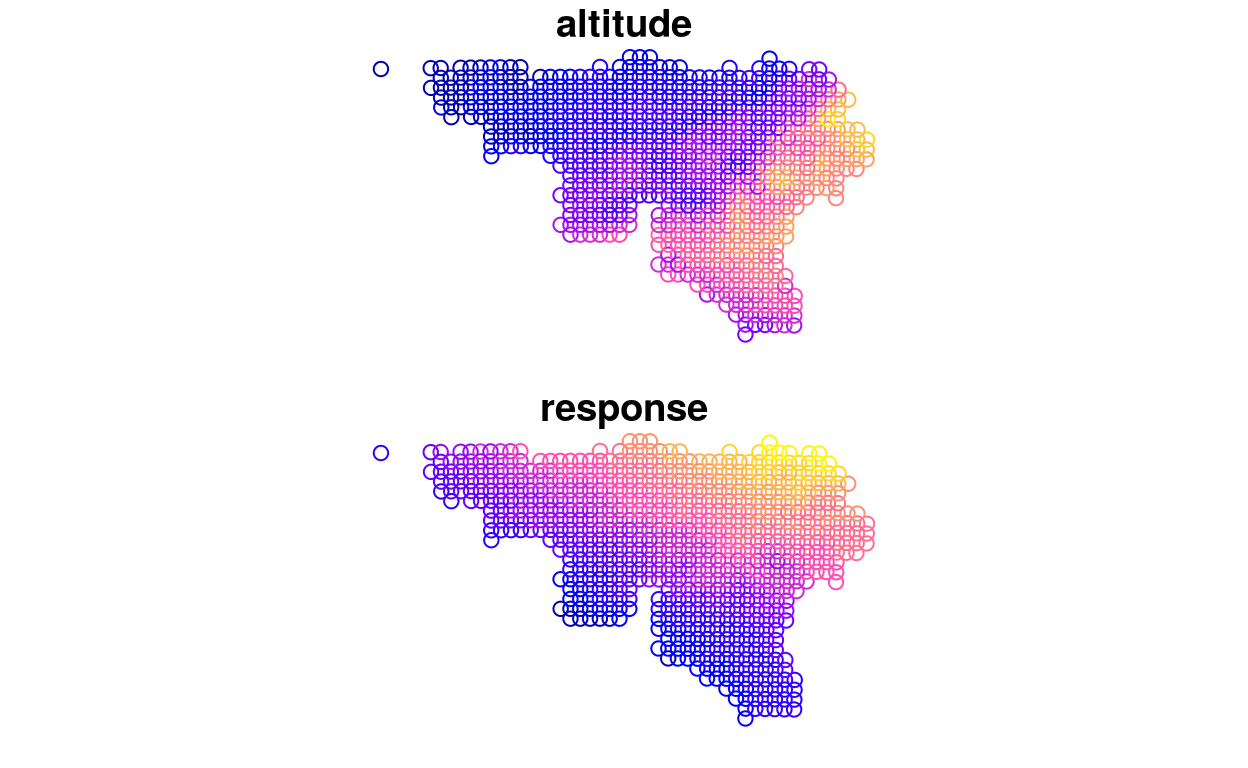
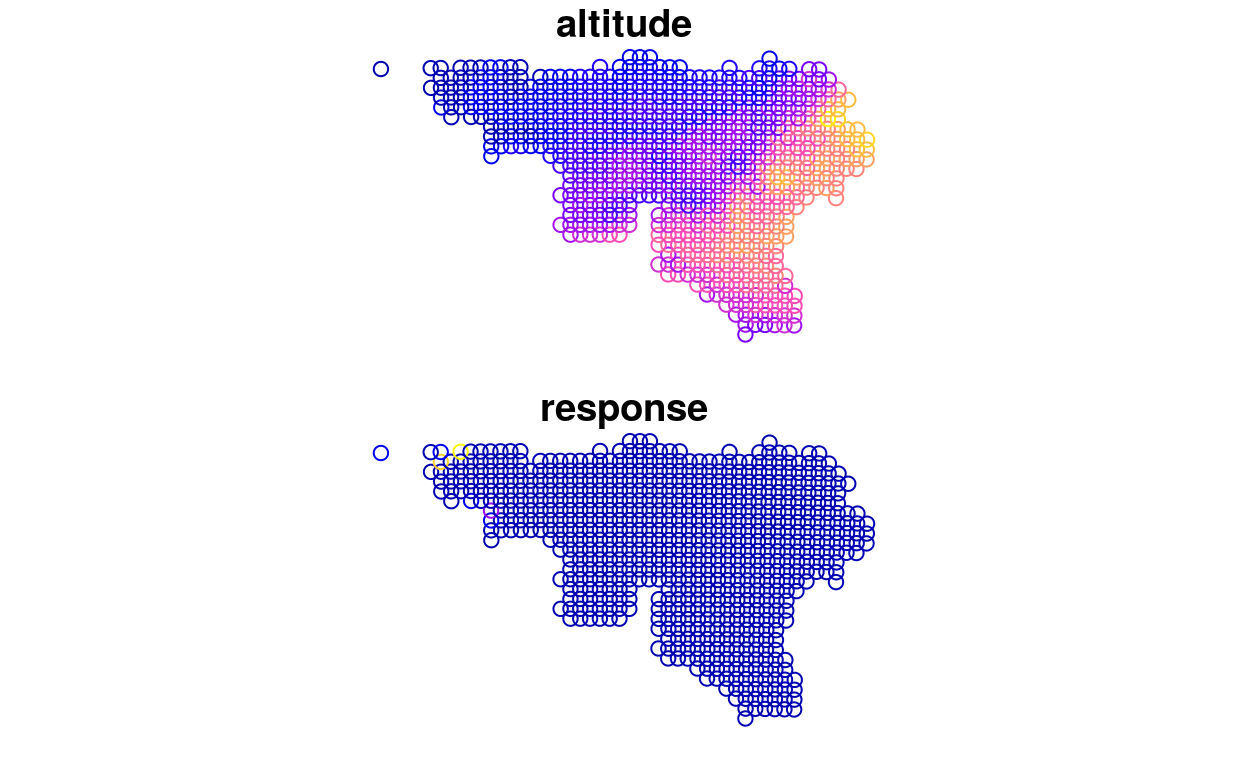
updated version with more learners

Changed region(s): [[0.3438, 0.5625, 0.7188, 0.9375]]

diff --git a/tuto.html b/tuto.html
@@ -442,7 +442,7 @@ map</code></pre>
 </div>
 <div id="section-mlr-library" class="section level3">
 <h3>MLR library</h3>
-<p><a href="https://mlr-org.github.io/mlr/reference/figures/logo_navbar.png"></a> <a href="https://mlr-org.github.io/mlr/index.html">go to mlr website for full details</a></p>
+<p><img src="https://mlr-org.github.io/mlr/reference/figures/logo_navbar.png" /> <a href="https://mlr-org.github.io/mlr/index.html">go to mlr website for full details</a></p>
 <p><code>mlr</code> is a <svg style="height:0.8em;top:.04em;position:relative;" viewBox="0 0 581 512"><path d="M581 226.6C581 119.1 450.9 32 290.5 32S0 119.1 0 226.6C0 322.4 103.3 402 239.4 418.1V480h99.1v-61.5c24.3-2.7 47.6-7.4 69.4-13.9L448 480h112l-67.4-113.7c54.5-35.4 88.4-84.9 88.4-139.7zm-466.8 14.5c0-73.5 98.9-133 220.8-133s211.9 40.7 211.9 133c0 50.1-26.5 85-70.3 106.4-2.4-1.6-4.7-2.9-6.4-3.7-10.2-5.2-27.8-10.5-27.8-10.5s86.6-6.4 86.6-92.7-90.6-87.9-90.6-87.9h-199V361c-74.1-21.5-125.2-67.1-125.2-119.9zm225.1 38.3v-55.6c57.8 0 87.8-6.8 87.8 27.3 0 36.5-38.2 28.3-87.8 28.3zm-.9 72.5H365c10.8 0 18.9 11.7 24 19.2-16.1 1.9-33 2.8-50.6 2.9v-22.1z"/></svg> library that offers a standardized interface for all its machine learning algorithms.</p>
 </div>
 <div id="section-the-idea" class="section level3">
@@ -511,6 +511,8 @@ ourbenchmark = mlr::benchmark(
 
 performances = mlr::getBMRAggrPerformances(bmr = ourbenchmark, as.df = TRUE)
 performances
+best.learner = data.frame(performances %&gt;% 
+    slice(which.min(rmse.test.rmse)))
 
 # Vizualizing the benchamrk result
 library(ggplot2)
@@ -539,7 +541,7 @@ ourPredictionGrid = dplyr::bind_cols(ourPredictionGrid, coords)
 
 # training the neural net on the dataset
 ourModel = mlr::train(
-  learner = mlr::getBMRLearners(bmr = ourbenchmark)[[1]],
+  learner = mlr::getBMRLearners(bmr = ourbenchmark)[[as.character(best.learner$learner.id)]],
   task = ourTask)</code></pre>
 <script type="application/json" data-opts-chunk="1">{"fig.width":6.5,"fig.height":4,"fig.retina":2,"fig.align":"default","fig.keep":"high","fig.show":"asis","out.width":624,"warning":true,"error":false,"message":false,"exercise.df_print":"paged","exercise.checker":"NULL"}</script>
 </div>
@@ -639,8 +641,9 @@ map2</code></pre>
 <ul>
 <li><a href="https://www.shinyproxy.io/deploying-apps/#run-shinyproxy" class="uri">https://www.shinyproxy.io/deploying-apps/#run-shinyproxy</a></li>
 <li><a href="https://github.com/o2r-project/containerit/blob/master/vignettes/containerit.Rmd" class="uri">https://github.com/o2r-project/containerit/blob/master/vignettes/containerit.Rmd</a></li>
-<li><a href="https://www.shinyproxy.io/deploying-apps/" class="uri">https://www.shinyproxy.io/deploying-apps/</a></li>
 <li><a href="https://jlintusaari.github.io/2018/07/how-to-compile-rmarkdown-documents-using-docker/" class="uri">https://jlintusaari.github.io/2018/07/how-to-compile-rmarkdown-documents-using-docker/</a></li>
+<li><a href="http://tamaszilagyi.com/blog/dockerized-shiny-app-development/" class="uri">http://tamaszilagyi.com/blog/dockerized-shiny-app-development/</a></li>
+<li><a href="http://nanx.me/liftr/" class="uri">http://nanx.me/liftr/</a></li>
 </ul>
 <p>devtools::install_github(“hadley/devtools”) devtools::install_github(“rstudio/packrat”) devtools::install_github(“tidyverse/dplyr”) library(devtools)</p>
 <p>You might also be interested in :</p>
@@ -674,7 +677,7 @@ library(rnaturalearth)
 library(rnaturalearthhires)
 
 # downloading data
-rawdata = agrometAPI::get_data(dfrom = (Sys.Date() - 1))
+rawdata = agrometAPI::get_data(user_token = "52a71385b68c101254944786aae44a7aa106ae1f", dfrom = (Sys.Date() - 1))
 rawdata = agrometAPI::type_data(rawdata)
 
 # filtering 
@@ -822,6 +825,9 @@ ourbenchmark = mlr::benchmark(
 performances = mlr::getBMRAggrPerformances(bmr = ourbenchmark, as.df = TRUE)
 performances
 
+best.learner = data.frame(performances %>% 
+    slice(which.min(rmse.test.rmse)))
+
 # Vizualizing the benchamrk result
 library(ggplot2)
 plotBMRBoxplots(
@@ -843,7 +849,7 @@ ourPredictionGrid = dplyr::bind_cols(ourPredictionGrid, coords)
 
 # training the neural net on the dataset
 ourModel = mlr::train(
-  learner = mlr::getBMRLearners(bmr = ourbenchmark)[[1]],
+  learner = mlr::getBMRLearners(bmr = ourbenchmark)[[as.character(best.learner$learner.id)]],
   task = ourTask)
 
 # using our model to make the prediction
